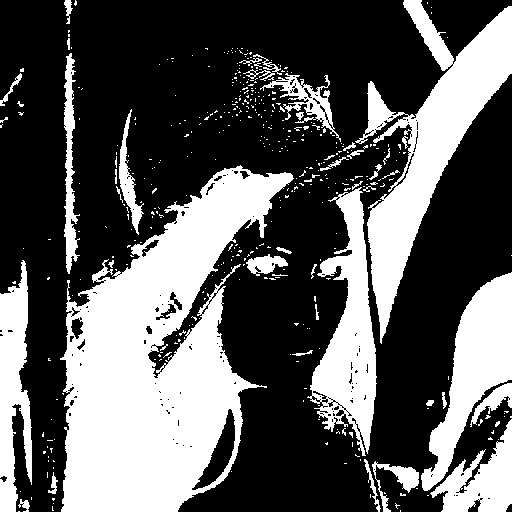
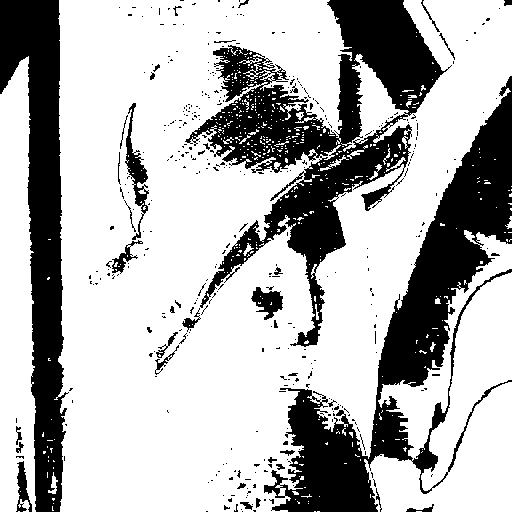
f

diff --git a/binarize/binarize.rb b/binarize/binarize.rb
@@ -40,7 +40,7 @@ end
 
 # Main part
 img = Imlib2::Image.load("srcimg/lena.jpg")
-minHue = 100.0
+minHue = 125.0
 maxHue = 150.0
 maxSat = 0.52
 minBright = 0.28
